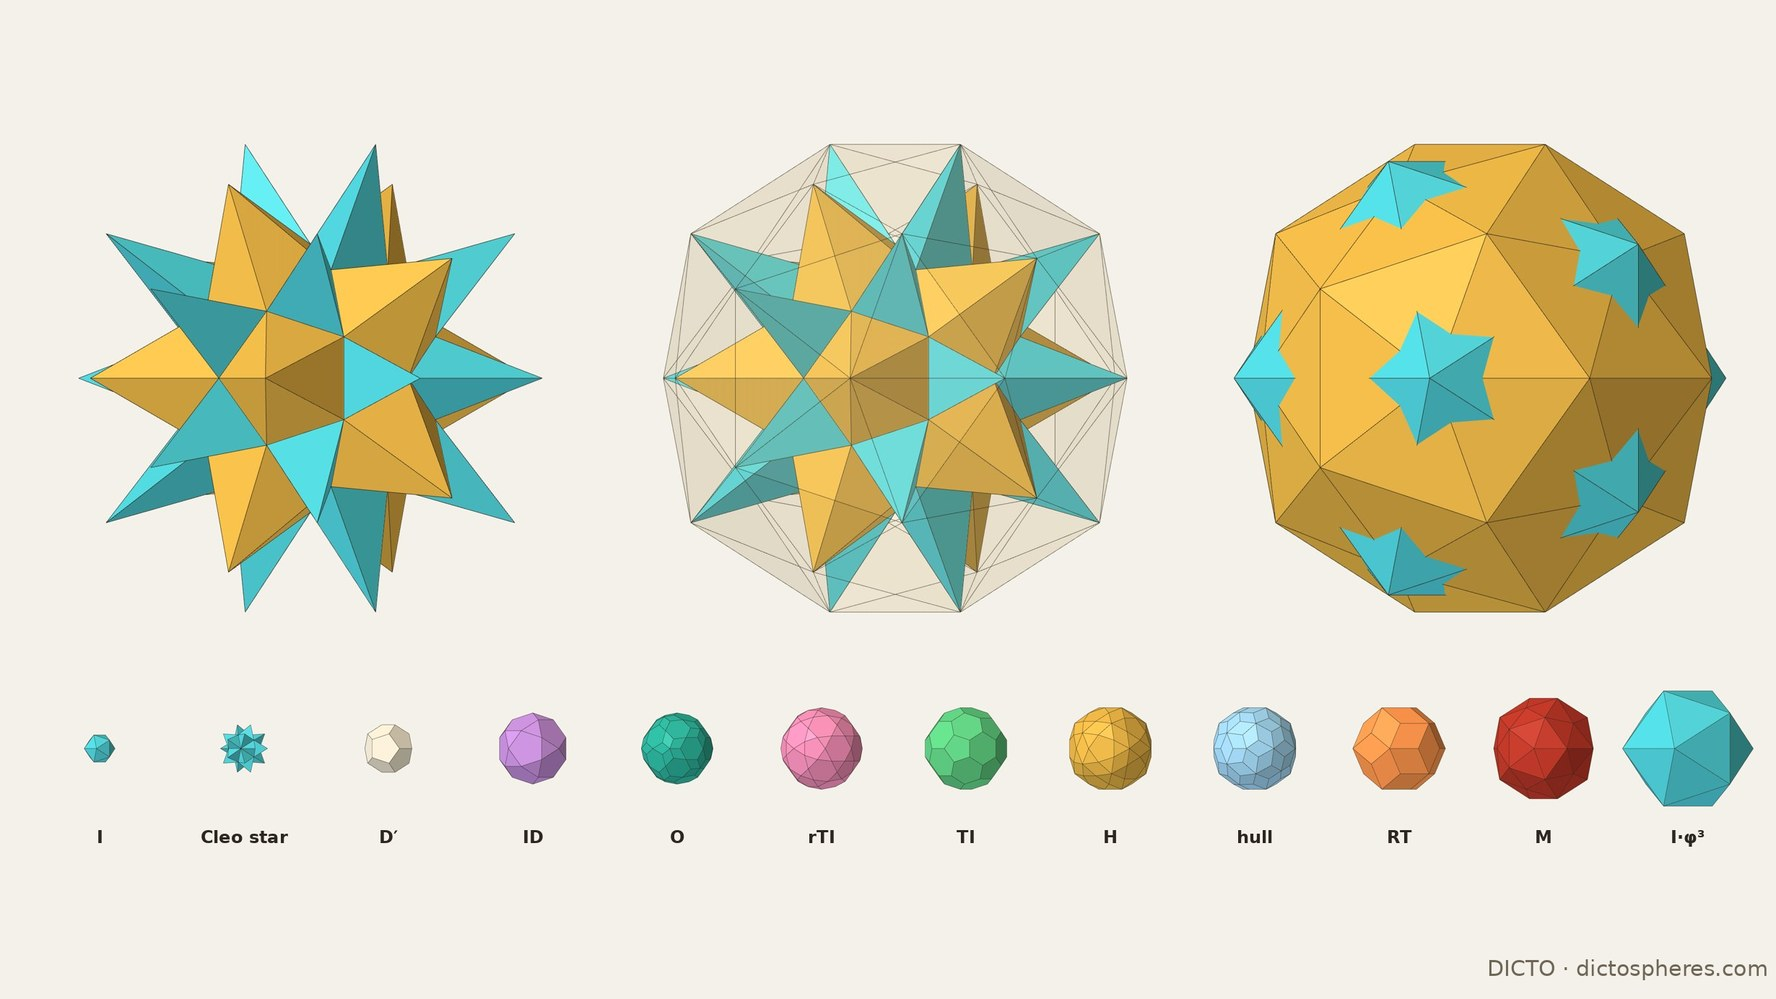
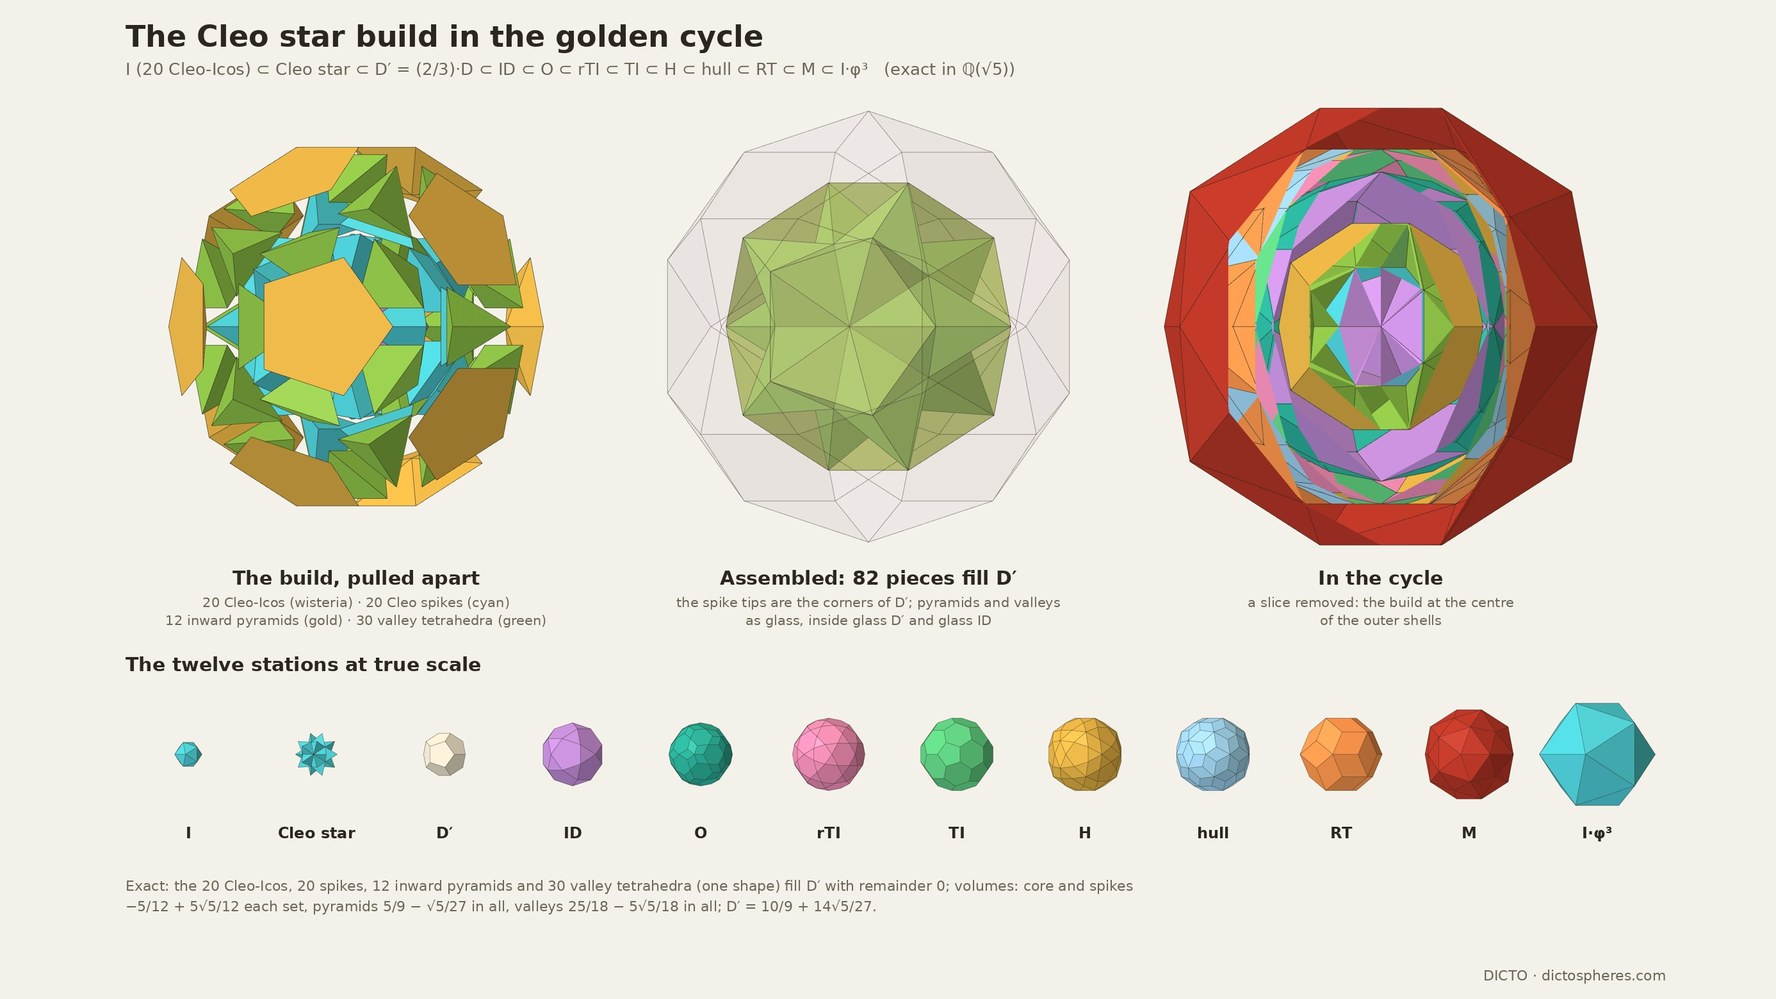
#35 card: cover is the paper's Figure 1 (Cleo star build and the twelve stations), as DICTO chose

diff --git a/index.html b/index.html
@@ -146,7 +146,7 @@
     <p class="disc-note">Short papers by DICTO, with the checks behind every claim.</p>
     <div class="papers">
       <div class="paper feature"><img src="papers/chain-of-karma.jpg" alt="The Chain of Karma, Chain step 2: 1,569 pieces, every icosahedron opened into a Lotus seed, pulled apart level by level" loading="eager" width="960" height="540"><span class="t"><span class="num">#22</span> The Chain of Karma <span class="soon">DOI 10.5281/zenodo.23310541</span></span><span class="s">The regular icosahedron and dodecahedron filled exactly as shells of each other, alternating without end (built and checked to 20,497 pieces). The centres of the Lotus seed's 13 icosahedra match the 600-cell's central vertex and its 12 neighbours, scaled by φ²; and its surface has the C60 fullerene pattern. Only the icosahedron is ever subdivided; the gap pieces occur at every scale.</span><span class="pdoi"><a class="doi-badge" href="https://doi.org/10.5281/zenodo.23310541" title="DICTO DOI, always the newest version"><span>DICTO DOI</span><span>10.5281/zenodo.23310541</span></a></span><span class="btns"><a class="btn" href="https://doi.org/10.5281/zenodo.23310541">Read paper</a><a class="btn" href="https://kaleidohedra.dictospheres.com/?open=chains:karma">View in app</a></span></div>
-      <div class="paper feature"><img src="papers/vajrayana.jpg" alt="Vajrayana: the icosidodecahedron star, inside its hull the DICTO Palintriacontahedron, and interlocked with the next icosahedron; below, the twelve stations of the golden cycle at true scale" loading="eager" width="1776" height="999"><span class="t"><span class="num">#35</span> Vajrayana</span><span class="s">A companion to Progenitors. The dodecahedron returns inside the golden cycle as the hull of DICTO's Cleo star, filled exactly by 82 pieces of four kinds. The last loose step, from the rhombic triacontahedron to the next icosahedron, is closed by a new solid that touches both, the DICTO Metaxyhexecontahedron, each of its two layers one kind of piece. The cycle grows to twelve stations. Exact in every step.</span><span class="pdoi"><a class="doi-badge" href="https://doi.org/10.5281/zenodo.23429911" title="DICTO DOI, always the newest version"><span>DICTO DOI</span><span>10.5281/zenodo.23429911</span></a></span><span class="btns"><a class="btn" href="https://doi.org/10.5281/zenodo.23429911">Read paper</a></span></div>
+      <div class="paper feature"><img src="papers/vajrayana.jpg?v=2" alt="Vajrayana: the Cleo star build pulled apart, assembled inside the dodecahedron D′, and in the cycle; below, the twelve stations of the golden cycle at true scale" loading="eager" width="1776" height="999"><span class="t"><span class="num">#35</span> Vajrayana</span><span class="s">A companion to Progenitors. The dodecahedron returns inside the golden cycle as the hull of DICTO's Cleo star, filled exactly by 82 pieces of four kinds. The last loose step, from the rhombic triacontahedron to the next icosahedron, is closed by a new solid that touches both, the DICTO Metaxyhexecontahedron, each of its two layers one kind of piece. The cycle grows to twelve stations. Exact in every step.</span><span class="pdoi"><a class="doi-badge" href="https://doi.org/10.5281/zenodo.23429911" title="DICTO DOI, always the newest version"><span>DICTO DOI</span><span>10.5281/zenodo.23429911</span></a></span><span class="btns"><a class="btn" href="https://doi.org/10.5281/zenodo.23429911">Read paper</a></span></div>
       <div class="paper feature"><img src="papers/progenitors.jpg" alt="Progenitors: the golden nine-station cycle with the Ogdoecontahedron in the dodecahedron's place, cut away and sliced through the centre" loading="eager" width="1776" height="999"><span class="t"><span class="num">#34</span> Progenitors</span><span class="s">The DICTO Hecatodihedron and Ogdoecontahedron as a twin pair. On their own they never close golden: tight nestings with their classical relatives are governed by 3. Set into the Spheres of Dharma in the dodecahedron's place, they close it again on φ⁹, and the cycle holds the core and hull of two dual compounds. Exact in every step.</span><span class="pdoi"><a class="doi-badge" href="https://doi.org/10.5281/zenodo.23413184" title="DICTO DOI, always the newest version"><span>DICTO DOI</span><span>10.5281/zenodo.23413184</span></a></span><span class="btns"><a class="btn" href="https://doi.org/10.5281/zenodo.23413184">Read paper</a></span></div>
       <div class="paper feature"><img src="papers/double-vision.jpg" alt="Double Vision: the interlock of both cycles in its two settings, a slice removed to show the layers and the next turn inside" loading="eager" width="1920" height="1080"><span class="t"><span class="num">#33</span> Double Vision – Both Cycles in One Space</span><span class="s">The Spheres of Dharma and their inside-out reversal placed in one space. One sphere of reciprocation toggles which shells the two cycles share, and no sphere gives both settings. Cut against each other, the two cycles make one solid of convex pieces, exact in every piece: 536 pieces of 12 kinds per turn in one setting, 502 of 11 in the other.</span><span class="pdoi"><a class="doi-badge" href="https://doi.org/10.5281/zenodo.23407106" title="DICTO DOI, always the newest version"><span>DICTO DOI</span><span>10.5281/zenodo.23407106</span></a></span><span class="btns"><a class="btn" href="https://doi.org/10.5281/zenodo.23407106">Read paper</a><a class="btn" href="https://kaleidohedra.dictospheres.com/?open=doubleVision">View in app</a></span></div>
       <div class="paper feature"><img src="papers/inverted-shells.jpg" alt="Inverted Shells: the great stellated dodecahedron, the reversed Spheres of Dharma cut in half, and its endless core" loading="eager" width="1920" height="1080"><span class="t"><span class="num">#32</span> Inverted Shells: The Spheres of Dharma Turned Inside Out</span><span class="s">Polar reciprocation turns the Spheres of Dharma inside out into a new exact golden cycle, every layer filled by one kind of piece. The great stellated dodecahedron locks into its outer gap at exactly one size, a dual pair fits its inner gap in reverse order, and the cycle repeats inward without end.</span><span class="pdoi"><a class="doi-badge" href="https://doi.org/10.5281/zenodo.23405029" title="DICTO DOI, always the newest version"><span>DICTO DOI</span><span>10.5281/zenodo.23405029</span></a></span><span class="btns"><a class="btn" href="https://doi.org/10.5281/zenodo.23405029">Read paper</a></span></div>
